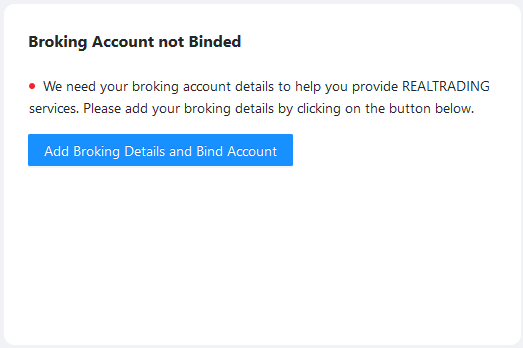
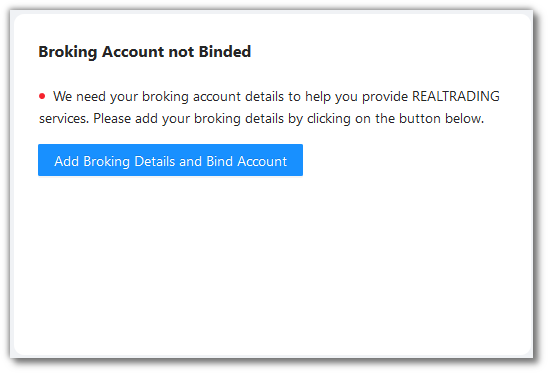
Major Update January 2021

Changed region(s): [[0.0, 0.0, 1.0, 1.0]]

diff --git a/docs/member/marketplace.md b/docs/member/marketplace.md
@@ -6,37 +6,37 @@ This is the Algobulls Platform Marketplace for strategies.
 
 Before adding any strategy to your Portfolio, you can search for strategies here, look into the details for each strategy, and view the backtesting reports to evaluate the performance. 
 
-[ ![Marketplace](imgs/mkt1.png "Click to Enlarge or Ctrl+Click to open in a new Tab") ](imgs/mkt1.png)
+[ ![Marketplace](imgs/screenshots/mkt1.png "Click to Enlarge or Ctrl+Click to open in a new Tab") ](imgs/screenshots/mkt1.png)
 
-## Searching for a Strategy 
+## Searching for a Strategy
 ---
 
 <iframe width="560" height="315" src="https://www.youtube.com/embed/VQCWEm4gJHg" frameborder="0" allow="accelerometer; autoplay; encrypted-media; gyroscope; picture-in-picture" allowfullscreen></iframe>
 
-[ ![Marketplace](imgs/mkt2.png "Click to Enlarge or Ctrl+Click to open in a new Tab") ](imgs/mkt2.png)
+[ ![Marketplace](imgs/screenshots/search_filter.png "Click to Enlarge or Ctrl+Click to open in a new Tab") ](imgs/screenshots/search_filter.png)
 
 `Search Bar` - You can type your keywords here.
 
 `Favorites` Toggle - Toggle the switch to see the strategies marked as Favorite (<font size=3>☆</font>)
 
+`Time` - Search for strategies added to the marketplace in the last month, last 3 days, last 2 weeks, or all time. 
+
 `Filter` - You can filter your view as per the following categories shown.
 
-![Marketplace](imgs/market-place-13-1.png)
-![Marketplace](imgs/market-place-13-2.png)
-![Marketplace](imgs/market-place-13-3.png)
-![Marketplace](imgs/market-place-13-4.png)
-![Marketplace](imgs/market-place-13-5.png)
-![Marketplace](imgs/market-place-13-6.png)
+[ ![Marketplace](imgs/screenshots/search_filter_2.png "Click to Enlarge or Ctrl+Click to open in a new Tab") ](imgs/screenshots/search_filter_2.png)
 
 `Sort By` - You can sort the strategies into the following:
 
 * Backtest PnL <font size=5>↑ ↓</font>
 * Drawdown <font size=5>↑ ↓</font> 
-* Transaction Frequency <font size=5>↑ ↓</font>
 * Transaction Charges <font size=5>↑ ↓</font>
 * Most Recent Transactions <font size=5>↑ ↓</font>
 
+[ ![Marketplace](imgs/screenshots/search_sort.png "Click to Enlarge or Ctrl+Click to open in a new Tab") ](imgs/screenshots/search_sort.png)
+
 `Pagination` - You can click the < and > for changing pages. You can also choose to view 6/8/10 strategies per page.
+
+[ ![Marketplace](imgs/screenshots/search_pagination.png "Click to Enlarge or Ctrl+Click to open in a new Tab") ](imgs/screenshots/search_pagination.png)
 
 ## What does a Strategy Card look like
 ---
@@ -58,7 +58,7 @@ Before adding any strategy to your Portfolio, you can search for strategies here
 
 `Share` - Click this button to get a shareable link for a strategy. You will see this message:
 
-![Marketplace](imgs/mkt9.png)
+![Marketplace](imgs/screenshots/url_copied.png)
 
 `Add to Favorites` - Click this button to add this strategy to Favorites for easy viewing later.
 
@@ -67,85 +67,98 @@ Before adding any strategy to your Portfolio, you can search for strategies here
 
 Clicking on a Strategy Card will give you a detailed and expanded view of the strategy.
 
-[ ![Marketplace](imgs/mkt3.png "Click to Enlarge or Ctrl+Click to open in a new Tab") ](imgs/mkt3.png)
+[ ![Marketplace](imgs/screenshots/expanded_view.png "Click to Enlarge or Ctrl+Click to open in a new Tab") ](imgs/screenshots/expanded_view.png)
 
 
 ### The LHS of the Expanded View for a Strategy Card
 ---
 The Left Hand Side of the expanded view shows the same details and the toolbar as the market place.
 
+[ ![Marketplace](imgs/screenshots/lhs.png "Click to Enlarge or Ctrl+Click to open in a new Tab") ](imgs/screenshots/lhs.png)
+
 In addition to that, the following details are visible:
 
- * `Strategy Code` - 
- * `Minimum Capital Required` - 
- * `Transaction Charges (in %)` - 
- * `Recommended Duration (Days)` - 
- * `Required Risk Appetite` - 
-
-[ ![Marketplace](imgs/market-place-4.png "Click to Enlarge or Ctrl+Click to open in a new Tab") ](imgs/market-place-4.png)
+ * `Strategy Code` - It is a unique identification code assigned to each strategy. You can search the strategy directly with the code.
+ * `Minimum Capital Required` - Minimum capital required in order to trade the strategy. There are different minimum amounts required to trade strategies depending upon the type of security and market the strategy is being traded into.
+ * `Transaction Charges (in %)` - Indicative transaction charges strategy is expected to incur per trade.
+ * `Recommended Duration (Days)` - Duration over which the strategy is expected to generate positive returns.
+ * `Required Risk Appetite` -  Maximum downside investor is expected to bear in order to make profits over the duration of the strategy.
 
 ### The RHS of the Expanded View for a Strategy Card
 ---
 
 The Right Hand Side of the expanded view has 2 tabs:
  
- * `Strategy Algorithm` - 
- * `Backtesting Report` - 
+ * `Strategy Algorithm` - Gives an overview of functioning of the strategy. You will find key parameters and entire logic of how the strategy is designed and works.
+ * `Backtesting Report` - Backtesting is very crucial before making trading any strategy live. You get entire trade summary of how the strategy has performed over backtesting period along with various key data points such as Net P/L (Rs & %), No of profitable trades, Hit Ratio, etc.
 
 #### Strategy Algorithm
 ---
 `Strategy Algorithm` has 2 tabs:
  
- * `Parameters` - 
-    * `Strategy By` -
-    * `Strategy Name` -
-    * `Exchange` -
-    * `Segment` -
-    * `Instrument` -
-    * `Candle Interval` -
-    * `Trading Type` -
-    * `Trading Start Time` -
-    * `Trading Stop Time` -
-    * `Parameters` - 
+ [ ![Marketplace](imgs/screenshots/sap.png "Click to Enlarge or Ctrl+Click to open in a new Tab") ](imgs/screenshots/sap.png)
+ 
+ * `Parameters` - These are all the parameters used by the strategy. 
+    * `Strategy By` - Creator of the strategy.
+    * `Strategy Name` - Name of the strategy.
+    * `Exchange` - Exchange the strategy is expected to trade on. This depends on the instrument the strategy being executed on such as NSE, NFO and MCX for Indian markets.
+    * `Segment` - Segments the strategy is expected to trade on. This depends on the exchange the strategy being executed on such as NSE, NFO and MCX for Indian markets.
+    * `Instrument` - Instrument on which the trading will be performed.
+    * `Candle Interval` - Candle Interval in which the strategy will be performed. 1 Min, 3 Mins, 5 Mins, 15 Mins and 30 Mins are some of the candle types which can be used to generate signals.
+    * `Trading Type` - States the trading type on which strategy will be performed. Intraday and Delivery are two modes supported by the platform. Transaction charges differ for both the trading types.
+    * `Trading Start Time` - Start time of the strategy. This can be user defined depending on the trading time.
+    * `Trading Stop Time` - Stop time of the strategy. This can be user defined depending on the trading time.
+    * `Parameters` - Key parameters of the strategy. This differs from strategy-to-strategy basis the logic. Fast MA Period, Slow MA Period and Signal Period in the concerned example above.
+
+[ ![Marketplace](imgs/screenshots/sad.png "Click to Enlarge or Ctrl+Click to open in a new Tab") ](imgs/screenshots/sad.png)
+
  * `Details` - 
 
 #### Backtesting Report
 ---
 `Backtesting Report` has 4 tabs:
  
- * `Summary` - 
-    * `Net PnL` - 
-    * `Net PnL %` - 
-    * `Max Drawdown` - 
-    * `Max Drawdown %` - 
-    * `Number of Trades` - 
-    * `Number of Wins` - 
-    * `Number of Looses` - 
-    * `Number of Long Trades` - 
-    * `Number of Short Trades` - 
-    * `Max Gain` - 
-    * `Min Gain` - 
-    * `Avg. Profit per winning trade` - 
-    * `Avg. Profit per losing trade` - 
- * `Returns` - 
-    * `All Time` -	
-    * `Last month` - 
-    * `Last 2 weeks` - 
-    * `Last 3 days` - 
- * `Tradebook` - 
-    * `Instrument` -
-    * `Entry Time` -	
-    * `Entry` -	
-    * `Entry Qty.` -	
-    * `Entry Price` -	
-    * `Exit Time` -	
-    * `Exit` -	
-    * `Exit Qty.` -	
-    * `Exit Price` -	
-    * `PnL (Rs.) / PnL %` -	
-    * `PnL Cum. (Rs.) / PnL Cum. %` -
- * `Insights (Beta)` - 
-    * `P&L Absolute (Rs.)` -
-    * `P&L %` -
-    * `P&L Cumulative Absolute (Rs.)` -
-    * `P&L Cumulative %` -
+[ ![Marketplace](imgs/screenshots/brs.png "Click to Enlarge or Ctrl+Click to open in a new Tab") ](imgs/screenshots/brs.png)
+ 
+ * `Summary` - Summary statistics of the strategy backtesting performed.
+    * `Net PnL` - Net PnL of the strategy.
+    * `Net PnL %` - Net PnL of the strategy in absolute percentage.
+    * `Max Drawdown` - Max drawdown the strategy suffered during backtesting period.
+    * `Max Drawdown %` - Max drawdown the strategy suffered during backtesting period in percentage.
+    * `Number of Trades` - No. of signals strategy generated during the backtesting.
+    * `Number of Wins` - No. of wins during the backtesting period
+    * `Number of Looses` - No. of losses during the backtesting period
+    * `Number of Long Trades` - No. of Long Trades strategy generated during backtesting period.
+    * `Number of Short Trades` - No. of Short Trades strategy generated during backtesting period.
+    * `Max Gain` - Max Gain during backtesting period.
+    * `Min Gain` - Min Gain during backtesting period. This is different than the Drawdown value because it considers minimum possible return from strategy.
+    * `Avg. Profit per winning trade` - Cumulative Profit for winning trades divided by No. of Wins
+    * `Avg. Profit per losing trade` - Cumulative Loss for winning trades divided by No. of Wins
+    
+[ ![Marketplace](imgs/screenshots/brr.png "Click to Enlarge or Ctrl+Click to open in a new Tab") ](imgs/screenshots/brr.png) 
+    
+ * `Returns` - Shows the returns given by the strategy over a period of time.
+    * `All Time` -Returns during the entire backtesting period.
+    * `Last month` - Returns during last 1 month.
+    * `Last 2 weeks` - Returns during last 2 weeks. 
+    * `Last 3 days` - Returns during last 3 days.
+
+[ ![Marketplace](imgs/screenshots/brt.png "Click to Enlarge or Ctrl+Click to open in a new Tab") ](imgs/screenshots/brt.png)
+
+ * `Tradebook` - Entire trade book for the backtesting period.
+    * `Instrument` - Instrument strategy being performed on.
+    * `Entry Time` - Entry time of trade.	
+    * `Entry` -	Entry trade type such as Buy/Sell
+    * `Entry Qty.` - Quantity traded	
+    * `Entry Price` - Price at which entry trade was executed	
+    * `Exit Time` -	Exit time of trade.
+    * `Exit` - Exit trade type such as Buy/Sell	
+    * `Exit Qty.` -	Quantity traded. This depends on the number of profit booking trades embedded in the strategy logic.
+    * `Exit Price` - Price at which exit trade was executed.	
+    * `PnL (Rs.) / PnL %` -	PnL amount and PnL % of each trade.
+    * `PnL Cum. (Rs.) / PnL Cum. %` - umulative PnL amount and Cumulative PnL % of each trade.
+ * `Insights (Beta)` - Graphical representation of trading results over the backtesting period. X-Axis is the daily time series of the backtesting period and Y-Axis is the amount and percentage depending upon the data.
+    * `P&L Absolute (Rs.)` - Absolute P&L in Rs./INR.
+    * `P&L %` - Absolute P&L in %.
+    * `P&L Cumulative Absolute (Rs.)` - Absolute Cumulative P&L in Rs./INR
+    * `P&L Cumulative %` - Absolute Cumulative P&L in %.

diff --git a/docs/member/Books/pnl.md b/docs/member/Books/pnl.md
@@ -4,7 +4,21 @@
 
 This page shows the Proft and Loss of your trades in your account. All trades/orders in your account are updated real-time as and when the transactions take place. To get a better understanding, you can filter your activities using the filters, strategy, instrument and date range.
 
-![Tradebook](imgs/PnL1.png)
+![PnLBook](imgs/PnL1.png)
+
+## Filters
+---
+Filters  will allow you to selectively search for a particular entry or emtries. 
+
+* `Strategies` - Choose one or more strategies to display them in the table below.
+These entries are populated as per the strategies opted/created by you.
+
+* `Instrument` - Choose one or more instruments to display them in the table below.
+These entries are populated as per the instruments on which your strategies are fired on.
+
+* `Date Range` - Give the date range to view the table for the selected strategy and instrument (if any)
+
+![PnLBook](imgs/pnl-2.png)
 
 ## Fields
 ---
@@ -22,8 +36,8 @@ The table covers the following fields:
 * `PnL` - 
 * `PnL %` - 
 
-![TradebookInstruments](imgs/pnl-2.png)
 
+[ ![PnLBook](imgs/PnL1.png "Click to Enlarge or Ctrl+Click to open in a new Tab") ](imgs/PnL1.png)
 ## A look at the toolbar
 ---
 

diff --git a/docs/member/Settings/general-settings.md b/docs/member/Settings/general-settings.md
@@ -1,4 +1,4 @@
-# General Settings
+# Settings
 
 <iframe width="560" height="315" src="https://www.youtube.com/embed/fYeZjPn3jUY" frameborder="0" allow="accelerometer; autoplay; encrypted-media; gyroscope; picture-in-picture" allowfullscreen></iframe>
 
@@ -27,6 +27,8 @@ The following list gives a short brief about each field.
 `PAN Number` - Your PAN Card number. This is required as per the governmental regulations for trading online.
 
 ![Profile](imgs/general-settings-2.png)
+
+`Title` - A suitable one liner description for your bio.
 
 `Bio` - A quick "About Me" that helps us to know more about you to interact with you suitably. Any links to your LinkedIn or other social media is also useful.
 

diff --git a/docs/member/Books/fundbook.md b/docs/member/Books/fundbook.md
@@ -4,7 +4,7 @@
 
 This page shows all the charges that your account has been charged against. The page shows your most recent charges, followed by older ones down the line. To get a better understanding, you can filter your transactions by category, and/or check your transactions within a date range.
 
-![Fundbook](imgs/FB1.png)
+![Fundbook](imgs/screenshots/FB1.png)
 
 ## Filters
 ---

diff --git a/docs/member/dashboard.md b/docs/member/dashboard.md
@@ -16,7 +16,7 @@ Click `Add Broking Details and Bind Account` to bind a broker account to the Alg
 
 Before binding an account, you will see this.
 
-![Dashboard](imgs/screenshots/broking_account_negative_shadow.png)
+![Dashboard](imgs/screenshots/broking_account_negative.png)
 
 After binding an account, you will see this.
 

diff --git a/docs/member/wallet.md b/docs/member/wallet.md
@@ -41,10 +41,6 @@ Click on the amount button of any plan to initiate payment for that plan.
 
 ![Nav](imgs/money-3.gif)
 
-Here is an overview of all plans offered by our platform.
-
-![Nav](imgs/money-12.gif)
-
 Click on `Active Plans` to see the plan(s) currently active in your account.
 
 ![Nav](imgs/money-9.png)

diff --git a/docs/member/Settings/broking-settings.md b/docs/member/Settings/broking-settings.md
@@ -21,7 +21,7 @@ Click on the Add button to add a new broker account.
 
 Select a broker of your choice. For our example, we select Zerodha.
 
-![Broking](imgs/broker-settings-2.png)
+![Broking](imgs/select-broker-1.png)
 
 Fill the required fields. (Fields marked with asterisk are required)
 
